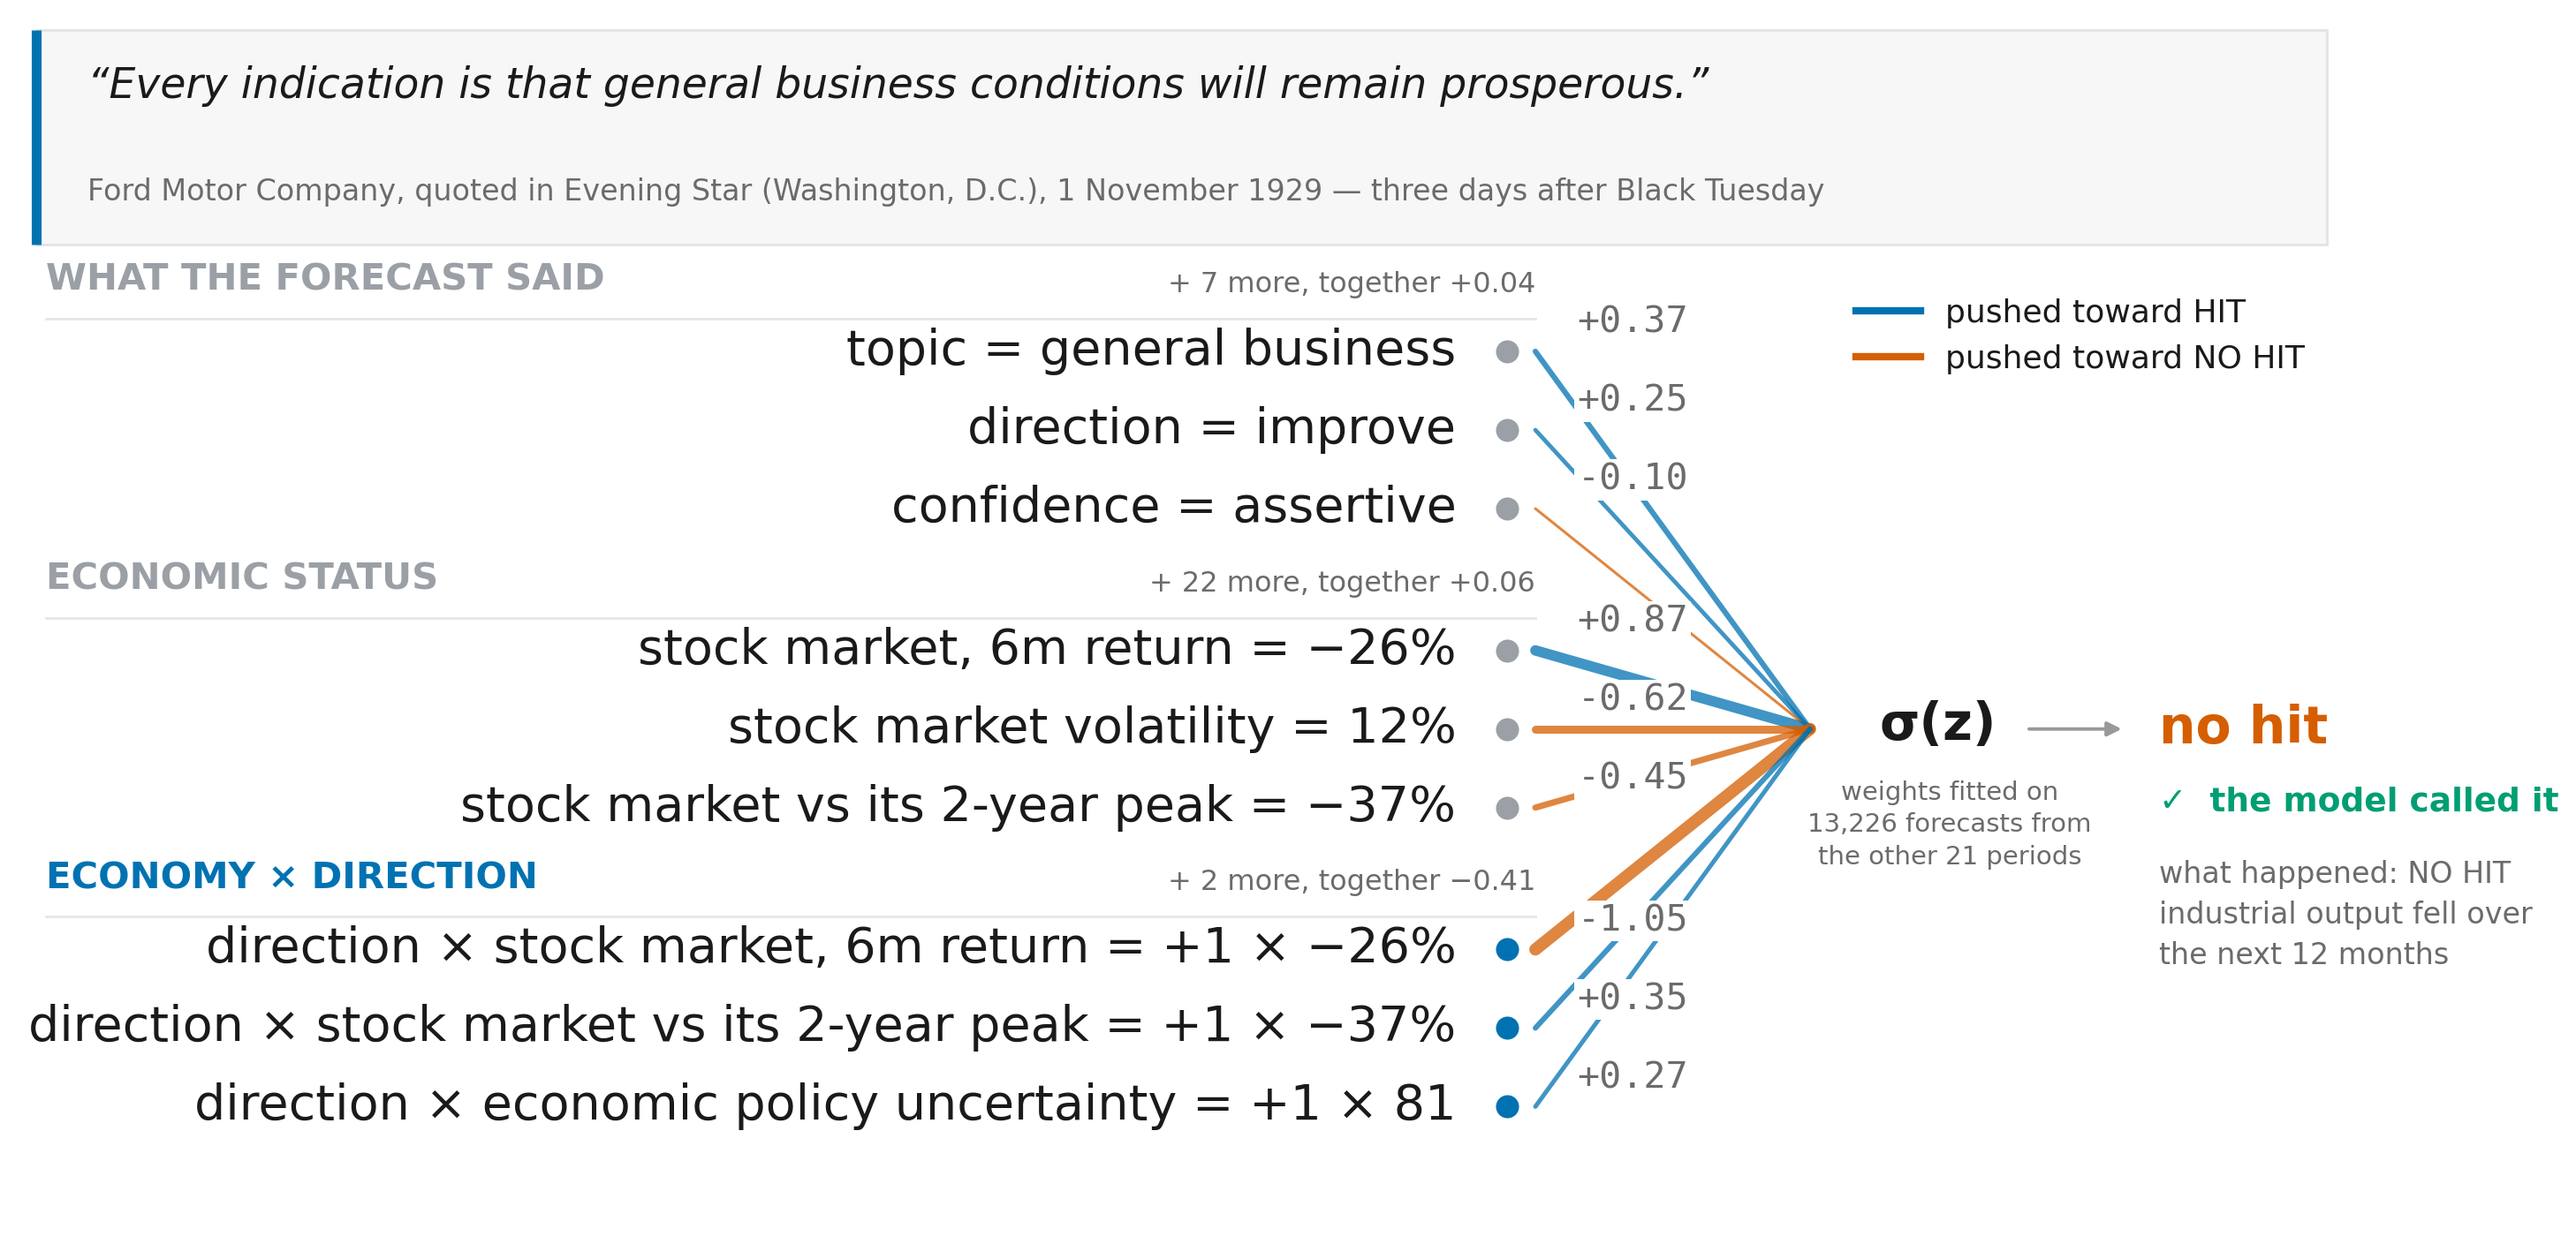
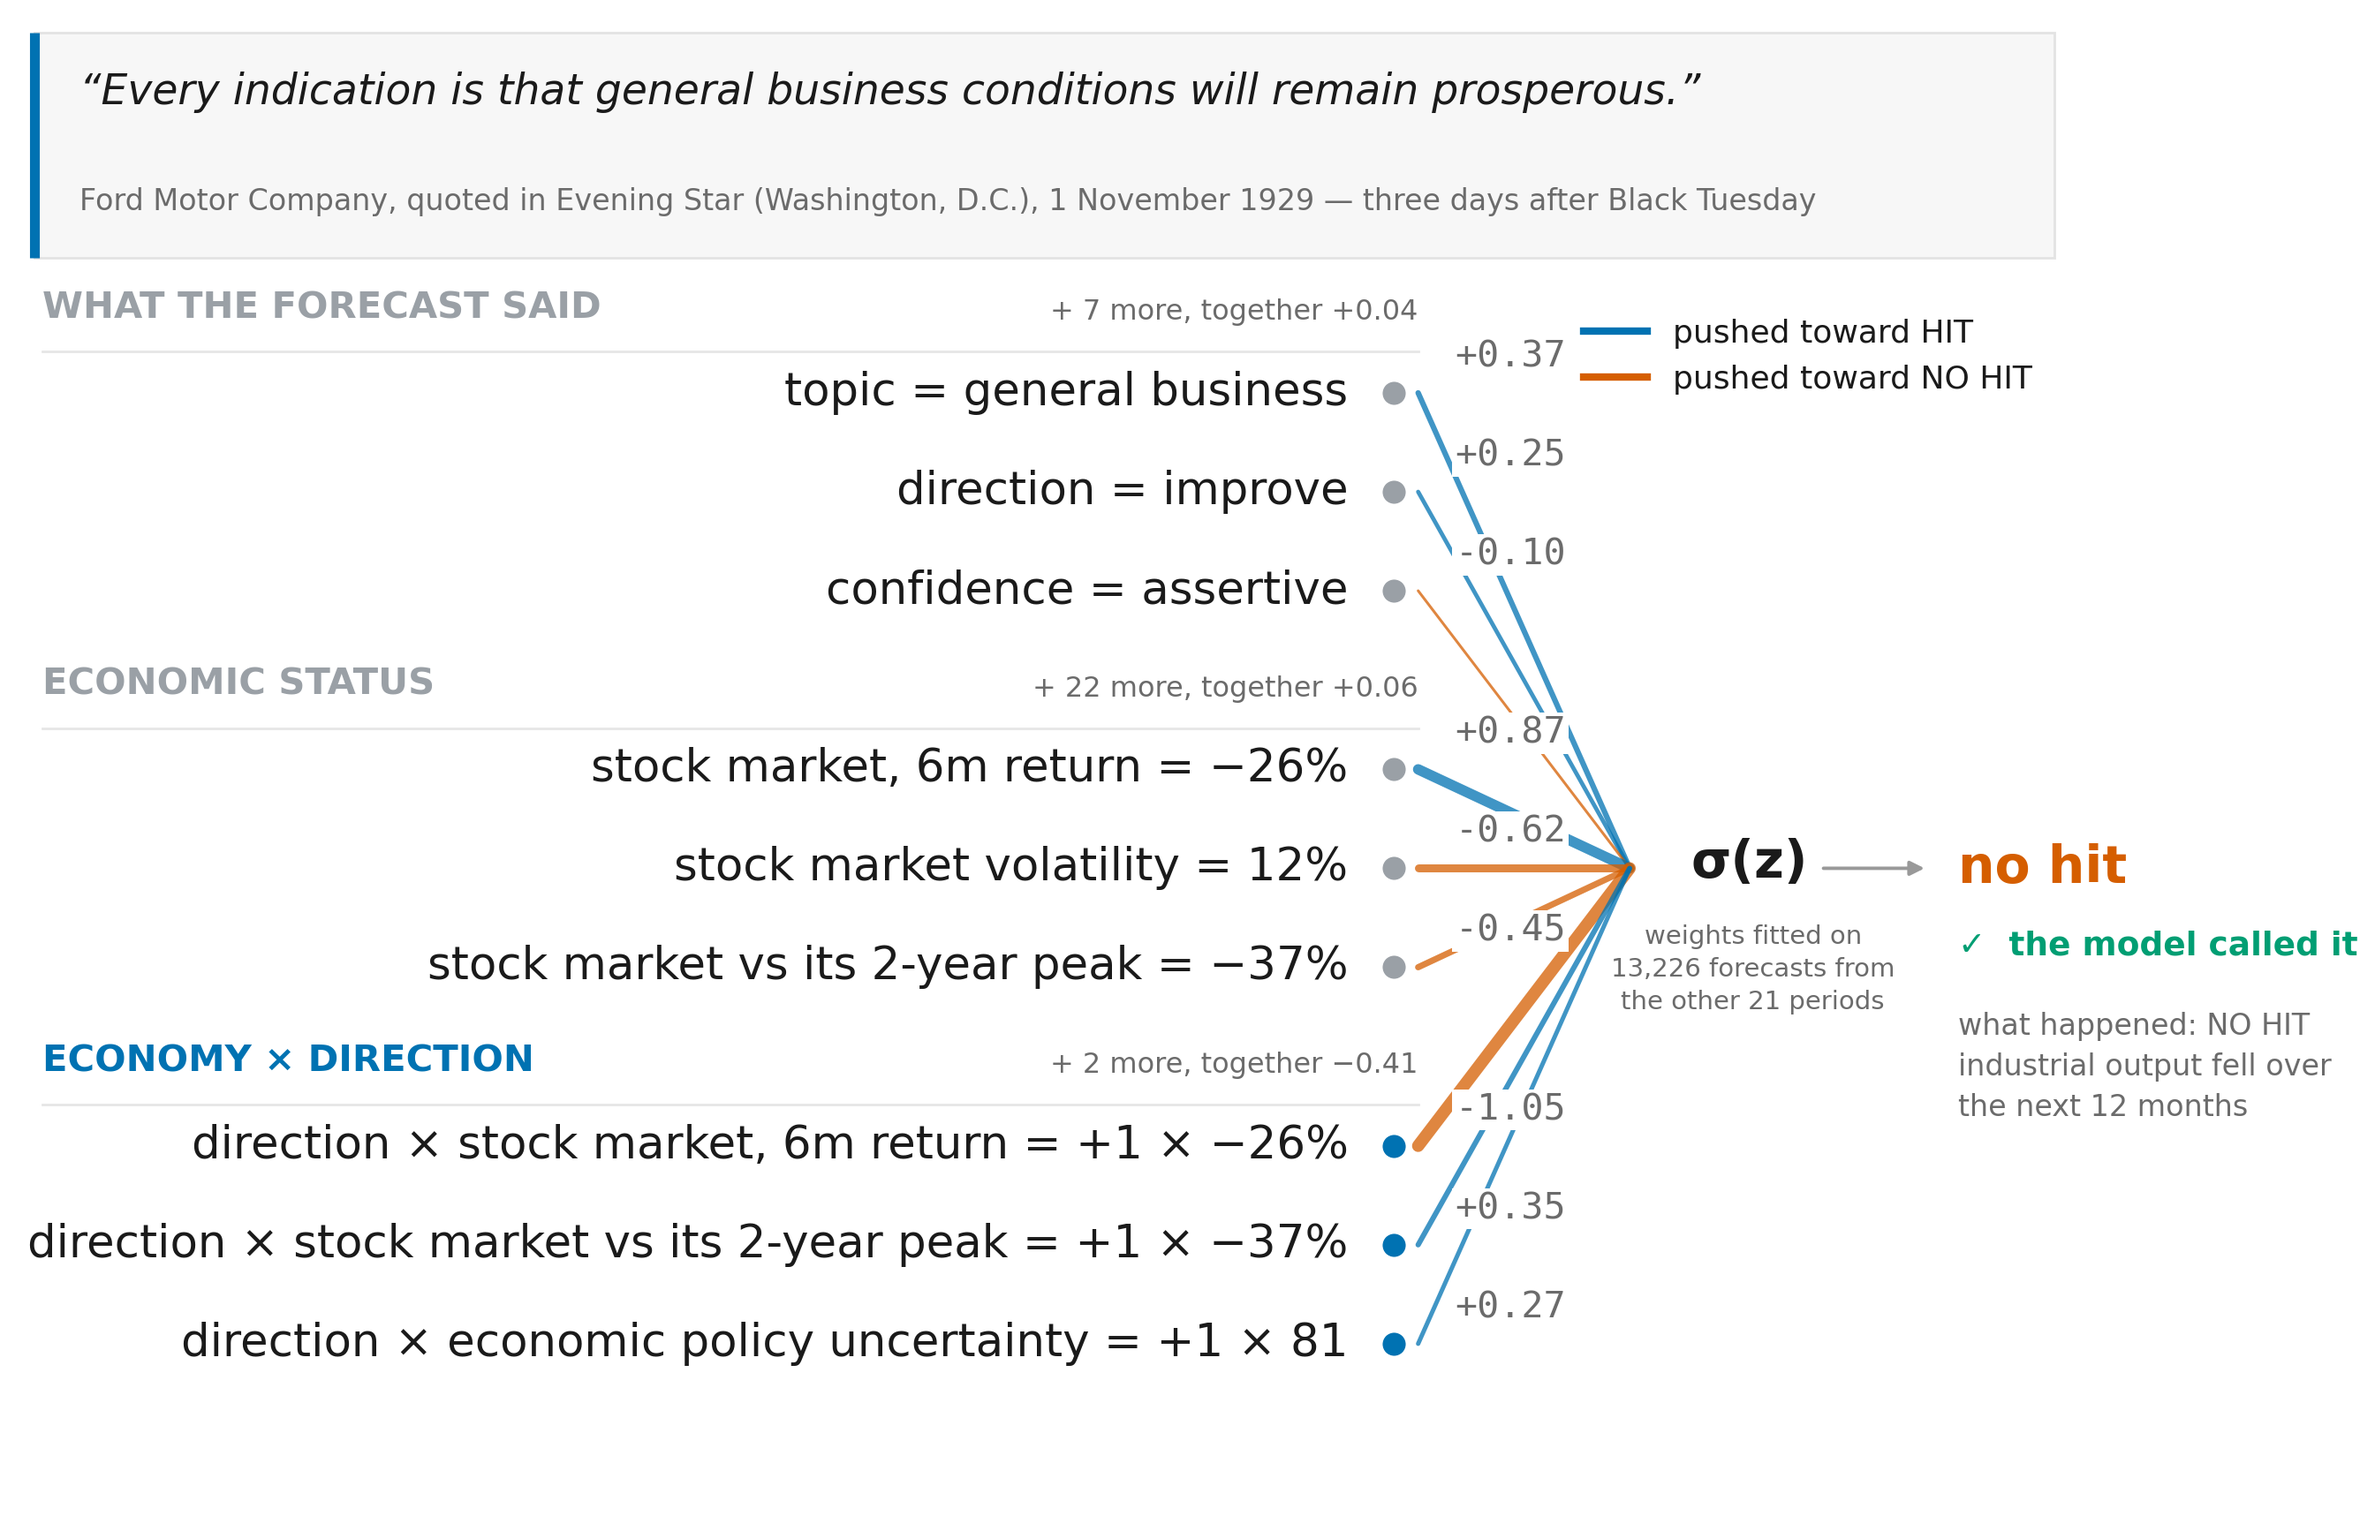
more

diff --git a/src/make_lr_figures.py b/src/make_lr_figures.py
@@ -509,24 +509,26 @@ def fig_graph(d, X, y, groups, per_group=3, spec=EXAMPLE):
     # figure, and inches of width are what let them be set large. The top limit
     # sits just above the quote box -- bbox_inches="tight" keeps the whole axes
     # patch, so any headroom past the box printed as a band of white above it.
-    # The top limit sits just above the quote box -- bbox_inches="tight" keeps
-    # the whole axes patch, so any headroom past the box printed as a band of
-    # white above it. Heights other than ~9in need the quote block's own
-    # geometry (in data units) rescaled, or its leading stretches with the page.
-    fig, ax = plt.subplots(figsize=(17.0, 9.0))
-    ax.set_xlim(0, 1); ax.set_ylim(yy_cursor + GAP - 0.055, 1.232)
+    # Narrow and tall. Width is the scarce dimension -- it caps how large the
+    # input labels can be set -- so height carries the air instead. The top
+    # limit sits just above the quote box: bbox_inches="tight" keeps the whole
+    # axes patch, so headroom past the box prints as a white band. The quote
+    # block's geometry below is tightened for an 11in page; at ~9in it wants the
+    # looser numbers (box 0.210, quote 1.185, attribution 1.075, top 1.232).
+    fig, ax = plt.subplots(figsize=(15.0, 11.0))
+    ax.set_xlim(0, 1); ax.set_ylim(yy_cursor + GAP - 0.055, 1.197)
     ax.axis("off"); ax.grid(False)
 
     # -- the forecast itself, quoted across the top ---------------------------
-    ax.add_patch(plt.Rectangle((0.008, 1.010), 0.984, 0.210, facecolor="#f7f7f7",
+    ax.add_patch(plt.Rectangle((0.008, 1.010), 0.984, 0.175, facecolor="#f7f7f7",
                                edgecolor="#e3e3e3", lw=1.0, zorder=0))
-    ax.plot([0.008, 0.008], [1.010, 1.220], color=BLUE, lw=4.0, zorder=1,
+    ax.plot([0.008, 0.008], [1.010, 1.185], color=BLUE, lw=4.0, zorder=1,
             solid_capstyle="butt")
-    ax.text(0.030, 1.185, f"“{row['quote'].strip()}”", fontsize=17,
+    ax.text(0.030, 1.155, f"“{row['quote'].strip()}”", fontsize=17,
             style="italic", va="top", color=INK)
     speaker = str(row.get("speaker_name", "na"))
     who = "" if speaker.lower() == "na" else f"{speaker}, quoted in "
-    ax.text(0.030, 1.075,
+    ax.text(0.030, 1.065,
             f"{who}{_tidy_publisher(row['publisher'])}, "
             f"{pd.to_datetime(row['date']):%-d %B %Y} — {spec['occasion']}",
             fontsize=12, color=MUTED, va="top")
@@ -535,13 +537,14 @@ def fig_graph(d, X, y, groups, per_group=3, spec=EXAMPLE):
     chosen = [(c, colr) for c, colr, _ in chosen]
     # Everything right of the inputs is packed as tightly as it will go, because
     # every hundredth of width saved here is width the labels can spend on type.
-    # x_node is set by measurement, not taste: the longest label -- "direction x
-    # stock market vs its 2-year peak = ..." -- is 0.613 wide at 20pt, so 0.640
-    # lands its left edge on the margin. Enlarging the type means moving this.
-    x_node = 0.640                      # the input column
-    x_conv = x_node + 0.130             # where the edges meet
+    # x_node is set by measurement, not taste: on a 15in page the longest label
+    # -- "direction x stock market vs its 2-year peak = ..." -- is 0.643 wide at
+    # 18.5pt, so 0.670 lands its left edge on the margin. Changing the page width
+    # or the label size means re-solving this row (see the label fontsize below).
+    x_node = 0.670                      # the input column
+    x_conv = x_node + 0.115             # where the edges meet
     x_sig = x_conv + 0.030              # sigma(z), set flush against the fan
-    x_out = 0.920                       # the verdict
+    x_out = 0.945                       # the verdict
     y_mid = (ys[0] + ys[-1]) / 2
     biggest = max(abs(live.at[c, "contrib"]) for c, _ in chosen)
 
@@ -555,7 +558,7 @@ def fig_graph(d, X, y, groups, per_group=3, spec=EXAMPLE):
     for (c, colr), yy in zip(chosen, ys):
         ax.plot([x_node], [yy], "o", ms=11, color=colr, mec="white", mew=1.6,
                 zorder=4)
-        ax.text(x_node - 0.022, yy, nice(c), fontsize=20, ha="right",
+        ax.text(x_node - 0.022, yy, nice(c), fontsize=18.5, ha="right",
                 va="center", color=INK)
         # White bbox: the edge leaves the node at a steep angle and passes
         # straight through where the number would otherwise sit.
@@ -582,7 +585,7 @@ def fig_graph(d, X, y, groups, per_group=3, spec=EXAMPLE):
             va="center", zorder=6, fontweight="bold")
     # Three short lines, not two long ones: a wide caption here either slid back
     # under the fan on its left or into the verdict on its right.
-    ax.text(x_sig + 0.030, y_mid - 0.050,
+    ax.text(x_sig + 0.030, y_mid - 0.044,
             f"weights fitted on\n{n_train:,} forecasts from\n"
             f"the other {n_blocks} periods",
             fontsize=10.5, ha="center", va="top", color=MUTED, linespacing=1.4)
@@ -599,12 +602,12 @@ def fig_graph(d, X, y, groups, per_group=3, spec=EXAMPLE):
                 zorder=4)
     ax.text(x_out, y_mid, said.lower(), fontsize=21, va="center",
             fontweight="bold", color=VERM if said == "NO HIT" else BLUE)
-    ax.text(x_out, y_mid - 0.056,
+    ax.text(x_out, y_mid - 0.048,
             "✓  the model called it" if said == truth
             else "✗  the model missed it",
             fontsize=13.5, va="top", fontweight="bold",
             color=GREEN if said == truth else VERM)
-    ax.text(x_out, y_mid - 0.128,
+    ax.text(x_out, y_mid - 0.112,
             f"what happened: {truth}\n{what} {verb} over\n"
             f"the next {int(row['horizon_used'])} months",
             fontsize=12, va="top", color=MUTED, linespacing=1.5)
